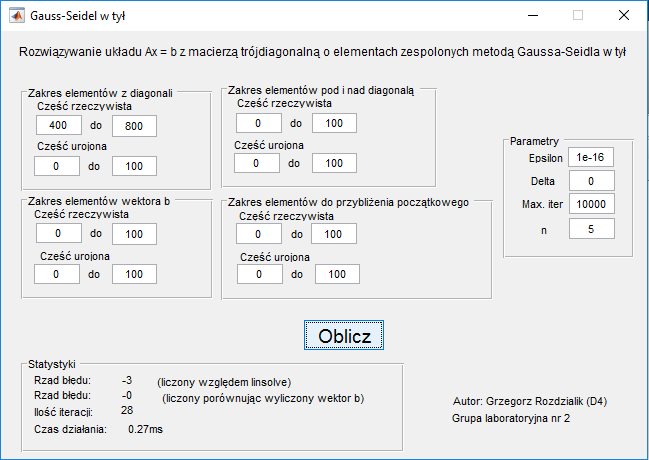
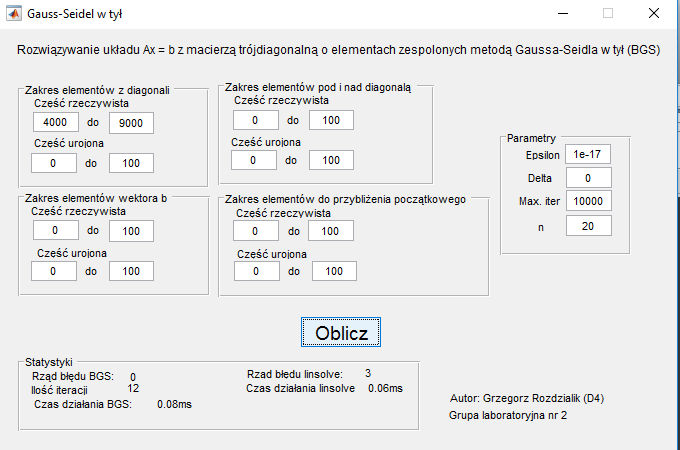
add more useful error metrics to GUI and testScript
Also update GUI layout and the image

diff --git a/bgsGUI.m b/bgsGUI.m
@@ -22,7 +22,7 @@ function varargout = bgsGUI(varargin)
 
 % Edit the above text to modify the response to help bgsGUI
 
-% Last Modified by GUIDE v2.5 15-Oct-2016 10:42:40
+% Last Modified by GUIDE v2.5 18-Oct-2016 14:54:15
 
 % Begin initialization code - DO NOT EDIT
 gui_Singleton = 1;
@@ -111,31 +111,41 @@ b = randComplex(przedzialBR, przedzialBI, 1, N);
 % Generowanie przyblizenia poczatkowego x0
 x0 = randComplex(przedzialX0R, przedzialX0I, 1, N);
 
-% Rozwiazywanie ukladu
+% Rozwiazywanie ukladu za pomoca BGS
 tic;
-[x, liczbaIteracji] = bgs(low, dia, upp, b, x0, epsilon, delta, maxIteracji);
-czasDzialania = toc;
-
-if all(isnan(x))
-    set(handles.errorMagnitudeLinsolve, 'String', 'blad');
-    set(handles.errorMagnitudeMultiplication, 'String', 'blad');
-else
-    % Obliczenie prawdziwego rozwiazania niezalezna metoda
-    xNiezalezne = reshape(linsolve(A, reshape(b, N, 1)), 1, N);
-    
-    % Obliczenie bledow
-    bladLinsolve = norm(x-xNiezalezne);
-    rzadBleduLinsolve = round(log10(bladLinsolve));
-
-    bladPoWymnozeniu = norm(A*reshape(x, N, 1) - reshape(b, N, 1));
-    rzadBleduPoWymnozeniu = round(log10(bladPoWymnozeniu));
-    
-    set(handles.errorMagnitudeLinsolve, 'String', rzadBleduLinsolve);
-    set(handles.errorMagnitudeMultiplication, 'String', rzadBleduPoWymnozeniu);
-end
+[xBGS, liczbaIteracji] = bgs(low, dia, upp, b, x0, epsilon, delta, maxIteracji);
+czasBGS = toc;
 
 set(handles.iterationCount, 'String', liczbaIteracji);
-set(handles.timeElapsed, 'String', sprintf('%.2fms', czasDzialania*1000));
+set(handles.timeElapsedBGS, 'String', sprintf('%.2fms', czasBGS*1000));
+
+if all(isnan(xBGS))
+    set(handles.errorMagnitudeBGS, 'String', 'blad');
+else
+    % Obliczenie bledow
+    bladBGS = norm(A*reshape(xBGS, N, 1) - reshape(b, N, 1));
+    rzadBleduBGS = round(log10(bladBGS));
+    set(handles.errorMagnitudeBGS, 'String', rzadBleduBGS);
+end
+
+
+% Obliczenie rozwiazania niezalezna metoda linsolve
+tic
+xLinsolve = linsolve(A, reshape(b, N, 1));
+czasLinsolve = toc;
+
+set(handles.timeElapsedLinsolve, 'String', sprintf('%.2fms', czasLinsolve*1000));
+
+if all(isnan(xLinsolve))
+    set(handles.errorMagnitudeLinsolve, 'String', 'blad');
+else
+    % Obliczenie bledow
+    bladLinsolve = norm(A*xLinsolve - b);
+    rzadBleduLinsolve = round(log10(bladLinsolve));
+    set(handles.errorMagnitudeLinsolve, 'String', rzadBleduLinsolve);
+end
+
+
 
 
 function bImagTo_Callback(hObject, eventdata, handles)

diff --git a/testScript.m b/testScript.m
@@ -49,19 +49,28 @@ czasDzialania = toc;
 if all(isnan(x))
     fprintf('Nie mozna obliczyc rozwiazania. Osiagnieto maksymalna liczbe iteracji, a wynik nie jest liczba.\n');
 else
-    % Obliczenie prawdziwego rozwiazania niezalezna metoda
-    xNiezalezne = reshape(linsolve(A, reshape(b, N, 1)), 1, N);
-    
     % Obliczenie bledu
-    bladLinsolve = norm(x-xNiezalezne);
-    rzadBleduLinsolve = round(log10(bladLinsolve));
-    
-    bladPoWymnozeniu = norm(A*reshape(x, N, 1) - reshape(b, N, 1));
-    rzadBleduPoWymnozeniu = round(log10(bladPoWymnozeniu));
+    bladBGS = norm(A*reshape(x, N, 1) - reshape(b, N, 1));
+    rzadBleduBGS = round(log10(bladBGS));
 
     fprintf('Obliczono rozwiazanie w ciagu %d iteracji.\n', liczbaIteracji);
-    fprintf('Rzad bledu (wzgledem linsolve): %d\n', rzadBleduLinsolve);
-    fprintf('Rzad bledu (wzgledem wyliczonego wektora b): %d\n', rzadBleduPoWymnozeniu);
+    fprintf('Rzad bledu BGS: %d\n', rzadBleduBGS);
 end
+fprintf('Czas dzialania BGS: %f ms\n', czasDzialania*1000);
 
-fprintf('Czas dzialania: %fms\n', czasDzialania*1000);
+
+% Obliczenie rozwiazania niezalezna metoda linsolve
+fprintf('\nPorownanie z funkcja linsolve\n');
+tic;
+xLinsolve = linsolve(A, reshape(b, N, 1));
+czasLinsolve = toc;
+
+if all(isnan(xLinsolve))
+    fprintf('Linsolve tez nie dalo dobrych rozwiazan.\n');
+else
+    % Obliczenie bledu
+    bladLinsolve = norm(A*xLinsolve - b);
+    rzadBleduLinsolve = round(log10(bladLinsolve));
+    fprintf('Rzad bledu linsolve: %d\n', rzadBleduLinsolve);
+end
+fprintf('Czas dzialania linsolve: %f ms\n', czasLinsolve*1000);
